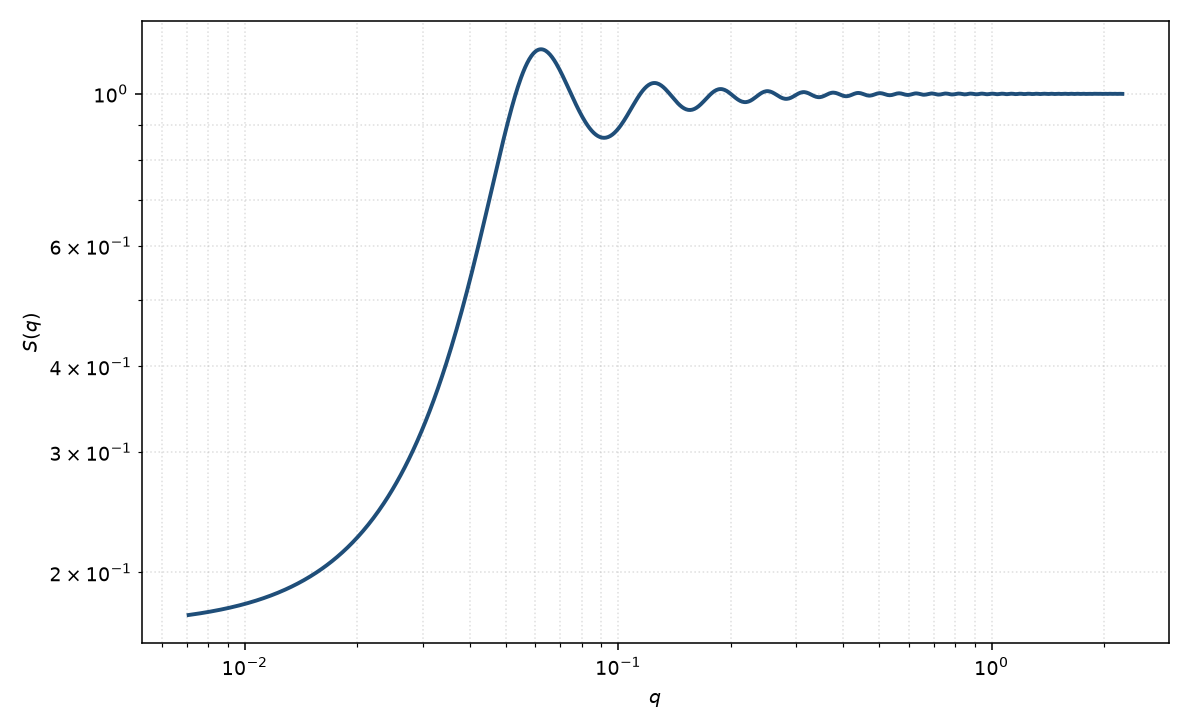
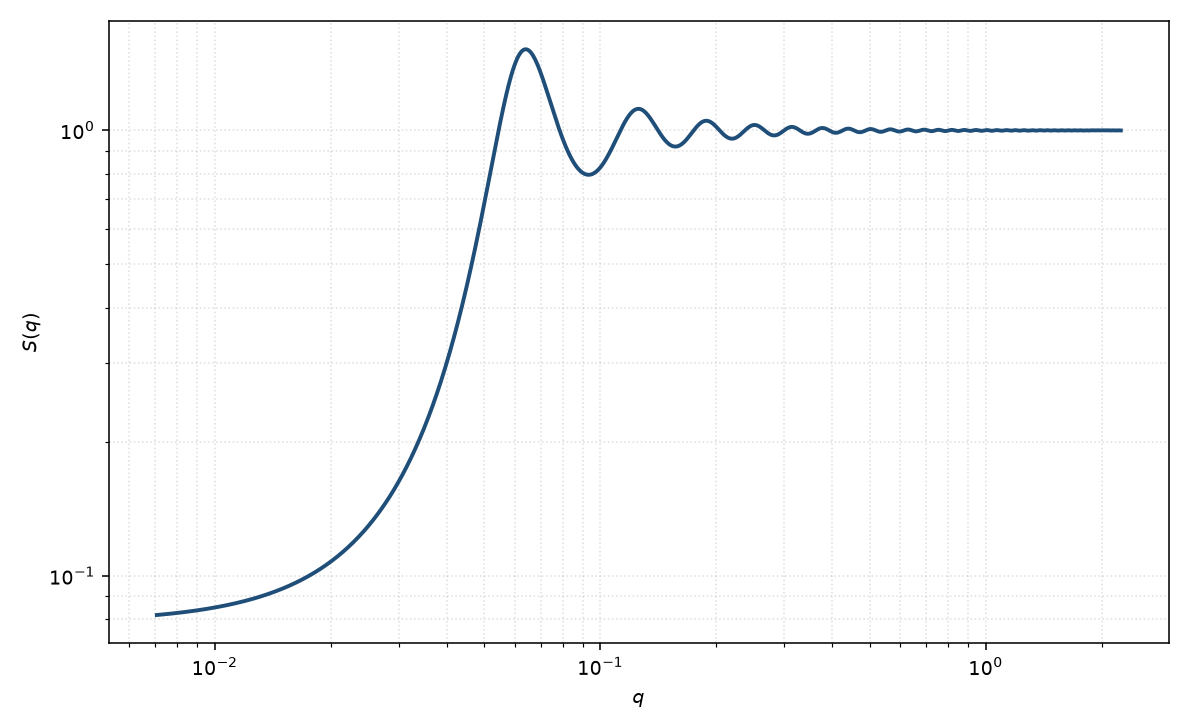
[fix]: 纠正黏性硬球 Baxter τ 与 Hayter 图文
- 核心公式改为 1/(12τ)≈(Δ/σ)exp(ε/kT)
- Yukawa 统一为无量纲接触势 γ(σ/r)exp(-κ(r-σ))
- 重画 hayter-msa-sq.png，使低 q 低于、峰高于硬球页

diff --git a/models/structure-factor/hayter-msa.html b/models/structure-factor/hayter-msa.html
@@ -18,7 +18,7 @@
       <p>带电胶体或胶束在低到中等盐下以屏蔽库仑（Yukawa）势相互作用时，用 Hayter–Penfold 平均球近似及其 rescaled MSA（RMSA）。典型对象：离子胶束、电荷稳定乳胶、低盐蛋白质，以及低 $q$ 被强烈压低、相关峰随盐浓度移动的体系。</p>
       <p>高盐、静电几乎被屏蔽时退回硬球。短程吸引主导时不要用纯排斥 Hayter。体积分数与 Debye 长度必须有独立约束，否则电荷会被吸收进 $\kappa$ 与 $\eta$。</p>
       <h2>物理图像</h2>
-      <p>硬核外交互为 Yukawa：$\beta u(r)=\gamma\exp(-\kappa(r-\sigma))/r$。MSA 对该势有解析 $c(r)$（Waisman / Hayter–Penfold）。当接触处 $g(\sigma^+)$ 算出为负时，Hansen–Hayter 把硬核放大到有效直径（RMSA），使接触值非负，这是稀释强电荷体系的常用修正。</p>
+      <p>硬核外交互为 Yukawa，接触势 $\gamma$ 无量纲：$\beta u(r)=\gamma(\sigma/r)\mathrm{e}^{-\kappa(r-\sigma)}$（$r&gt;\sigma$），于是 $\beta u(\sigma^+)=\gamma$。MSA 对该势有解析 $c(r)$（Waisman / Hayter–Penfold）。当接触处 $g(\sigma^+)$ 算出为负时，Hansen–Hayter 把硬核放大到有效直径（RMSA），使接触值非负，这是稀释强电荷体系的常用修正。</p>
       <p>$S(0)$ 随电荷与 Debye 长度增大而进一步下降（渗透压升高）。相关峰位置近似 $2\pi/d$，平均间距 $d\sim \sigma\,\eta^{-1/3}$。盐升高则 $\kappa$ 增大、峰减弱并外移。</p>
       <h2>示意图</h2>
       <figure class="figure">
@@ -26,8 +26,8 @@
         <figcaption>排斥 Yukawa 的 $S(q)$：低 $q$ 强烈压低，相关峰高于硬球。<span class="fig-source">配图：按公式计算示意</span></figcaption>
       </figure>
       <h2>核心公式</h2>
-      <p>屏蔽库仑（接触势 $\gamma$，筛选 $\kappa$）</p>
-      $$\beta u(r)=\gamma\,\frac{\sigma}{r}\,\mathrm{e}^{-\kappa(r-\sigma)}\quad(r>\sigma).$$
+      <p>屏蔽库仑。$\gamma$ 是无量纲接触势，$\kappa$ 是筛选波数</p>
+      $$\beta u(r)=\gamma\,\frac{\sigma}{r}\,\mathrm{e}^{-\kappa(r-\sigma)}\quad(r>\sigma),\qquad \beta u(\sigma^+)=\gamma.$$
       <p>MSA 给出 $S(q)=[1-n\hat{c}(q;\eta,\gamma,\kappa\sigma)]^{-1}$ 的闭式。$\kappa$ 由离子强度决定（水溶液室温约 $\kappa\simeq 0.329\sqrt{I}\ \mathrm{nm}^{-1}$，$I$ 以 mol L$^{-1}$）。RMSA 在 $g(\sigma^+)&lt;0$ 时把 $\sigma$ 放到接触非负后再计算 $S(q)$。</p>
       <h2>参数表</h2>
       <table>
@@ -36,7 +36,7 @@
           <tr><td>硬球半径</td><td>$R$</td><td>硬核半径，$\sigma=2R$</td><td>Å</td><td>含水化层的有效半径</td></tr>
           <tr><td>体积分数</td><td>$\eta$</td><td>有效硬球体积分数</td><td>无量纲</td><td>由浓度与 $\sigma$ 约束</td></tr>
           <tr><td>Debye 长度</td><td>$\kappa^{-1}$</td><td>静电筛选长度</td><td>Å 或 nm</td><td>由离子强度计算，不宜与电荷同时自由</td></tr>
-          <tr><td>接触势 / 电荷</td><td>$\gamma$ 或 $Z$</td><td>Yukawa 接触值，或有效价</td><td>无量纲 / $e$</td><td>由表面化学估计后微调</td></tr>
+          <tr><td>接触势</td><td>$\gamma$</td><td>无量纲接触值，$\beta u(\sigma^+)=\gamma$</td><td>无量纲</td><td>由有效价与 $\kappa\sigma$ 估计后微调</td></tr>
           <tr><td>标度 / 本底</td><td>$\mathrm{scale}$, $B$</td><td>$I=P\,S+B$ 的前置与本底</td><td>与强度单位一致</td><td>实验相关</td></tr>
         </tbody>
       </table>

diff --git a/models/structure-factor/sticky-hard-sphere.html b/models/structure-factor/sticky-hard-sphere.html
@@ -26,7 +26,11 @@
         <figcaption>黏性硬球 $S(q)$：相对纯硬球，低 $q$ 抬升。<span class="fig-source">配图：按公式计算示意</span></figcaption>
       </figure>
       <h2>核心公式</h2>
-      <p>Baxter 黏性参数 $\tau$ 与阱的极限满足 $12\tau\approx \lim(\mathrm{e}^{u/kT}\Delta/\sigma)$（$\Delta$ 为阱宽）。$\lambda$ 取物理小根，使接触值有限。结构因子仍写成</p>
+      <p>Baxter 黏性参数 $\tau$ 由方阱深度 $\varepsilon&gt;0$、宽度 $\Delta$ 的黏性极限定义（$\Delta\to 0$，$\varepsilon\to\infty$，二阶维里系数有限）</p>
+      $$\frac{1}{12\tau}\approx\lim\frac{\Delta}{\sigma}\,\mathrm{e}^{\varepsilon/kT}
+      \qquad\text{或等价地}\qquad
+      12\tau\approx\lim\frac{\sigma}{\Delta}\,\mathrm{e}^{-\varepsilon/kT}.$$
+      <p>$\lambda$ 取物理小根，使接触值有限。结构因子仍写成</p>
       $$S(q)=\bigl[1-n\hat{c}(q;\eta,\lambda)\bigr]^{-1},$$
       <p>其中 $\hat{c}$ 在硬球 PY 多项式上增加与 $\lambda$ 成正比的接触项。$\tau\to\infty$ 时 $\lambda\to 0$，回到 Percus–Yevick 硬球。</p>
       <h2>参数表</h2>
